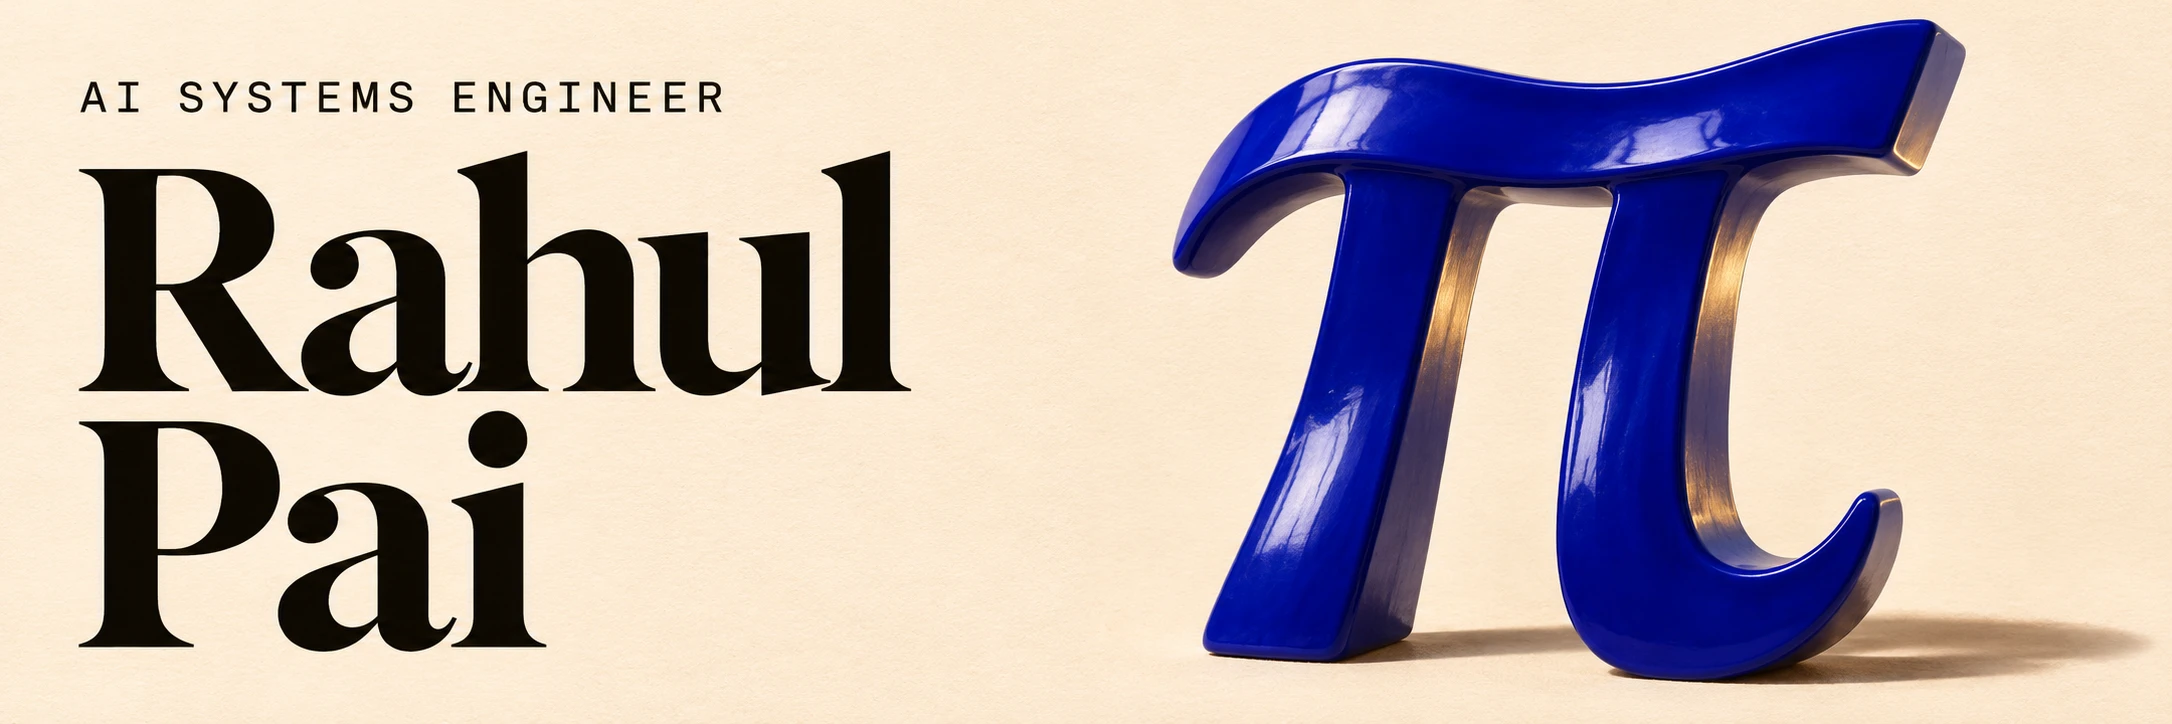
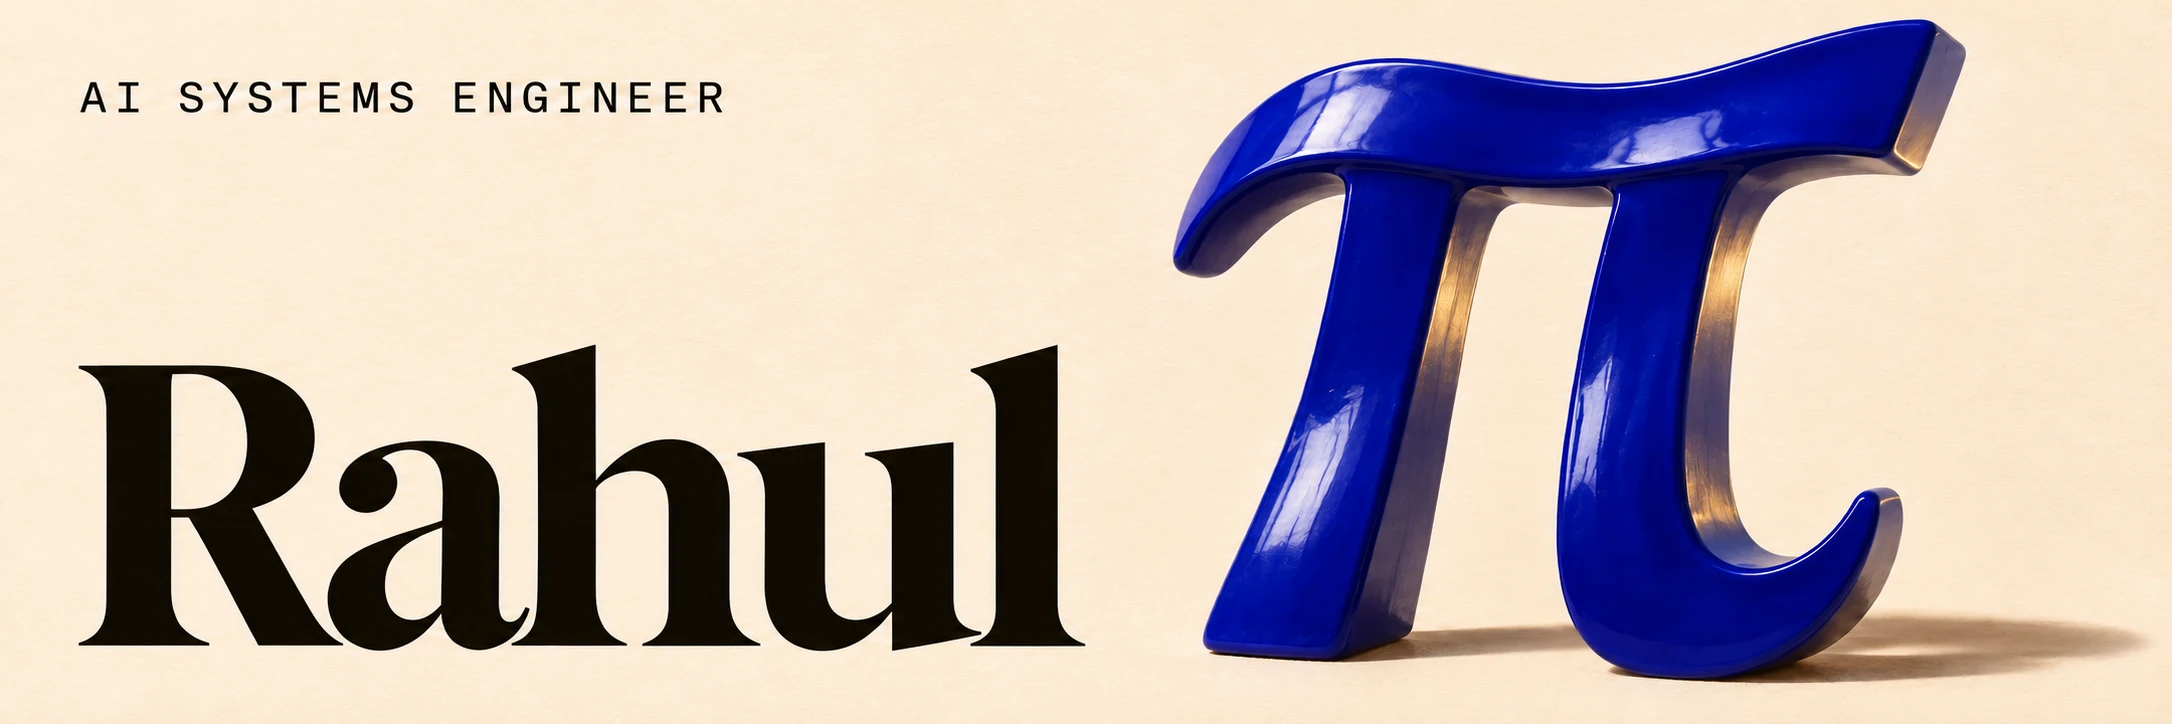
Update cover typography and shorten contribution entry

diff --git a/README.md b/README.md
@@ -1,4 +1,4 @@
-[![Rahul Pai, AI systems engineer. Open portfolio.](assets/rahul-pai-cover.webp)](https://rahul-pai.vercel.app/)
+[![Rahul, AI systems engineer. Open portfolio.](assets/rahul-pai-cover.webp)](https://rahul-pai.vercel.app/)
 
 I am obsessed with building and supporting teams that develop great products to help accomplish the vision.
 
